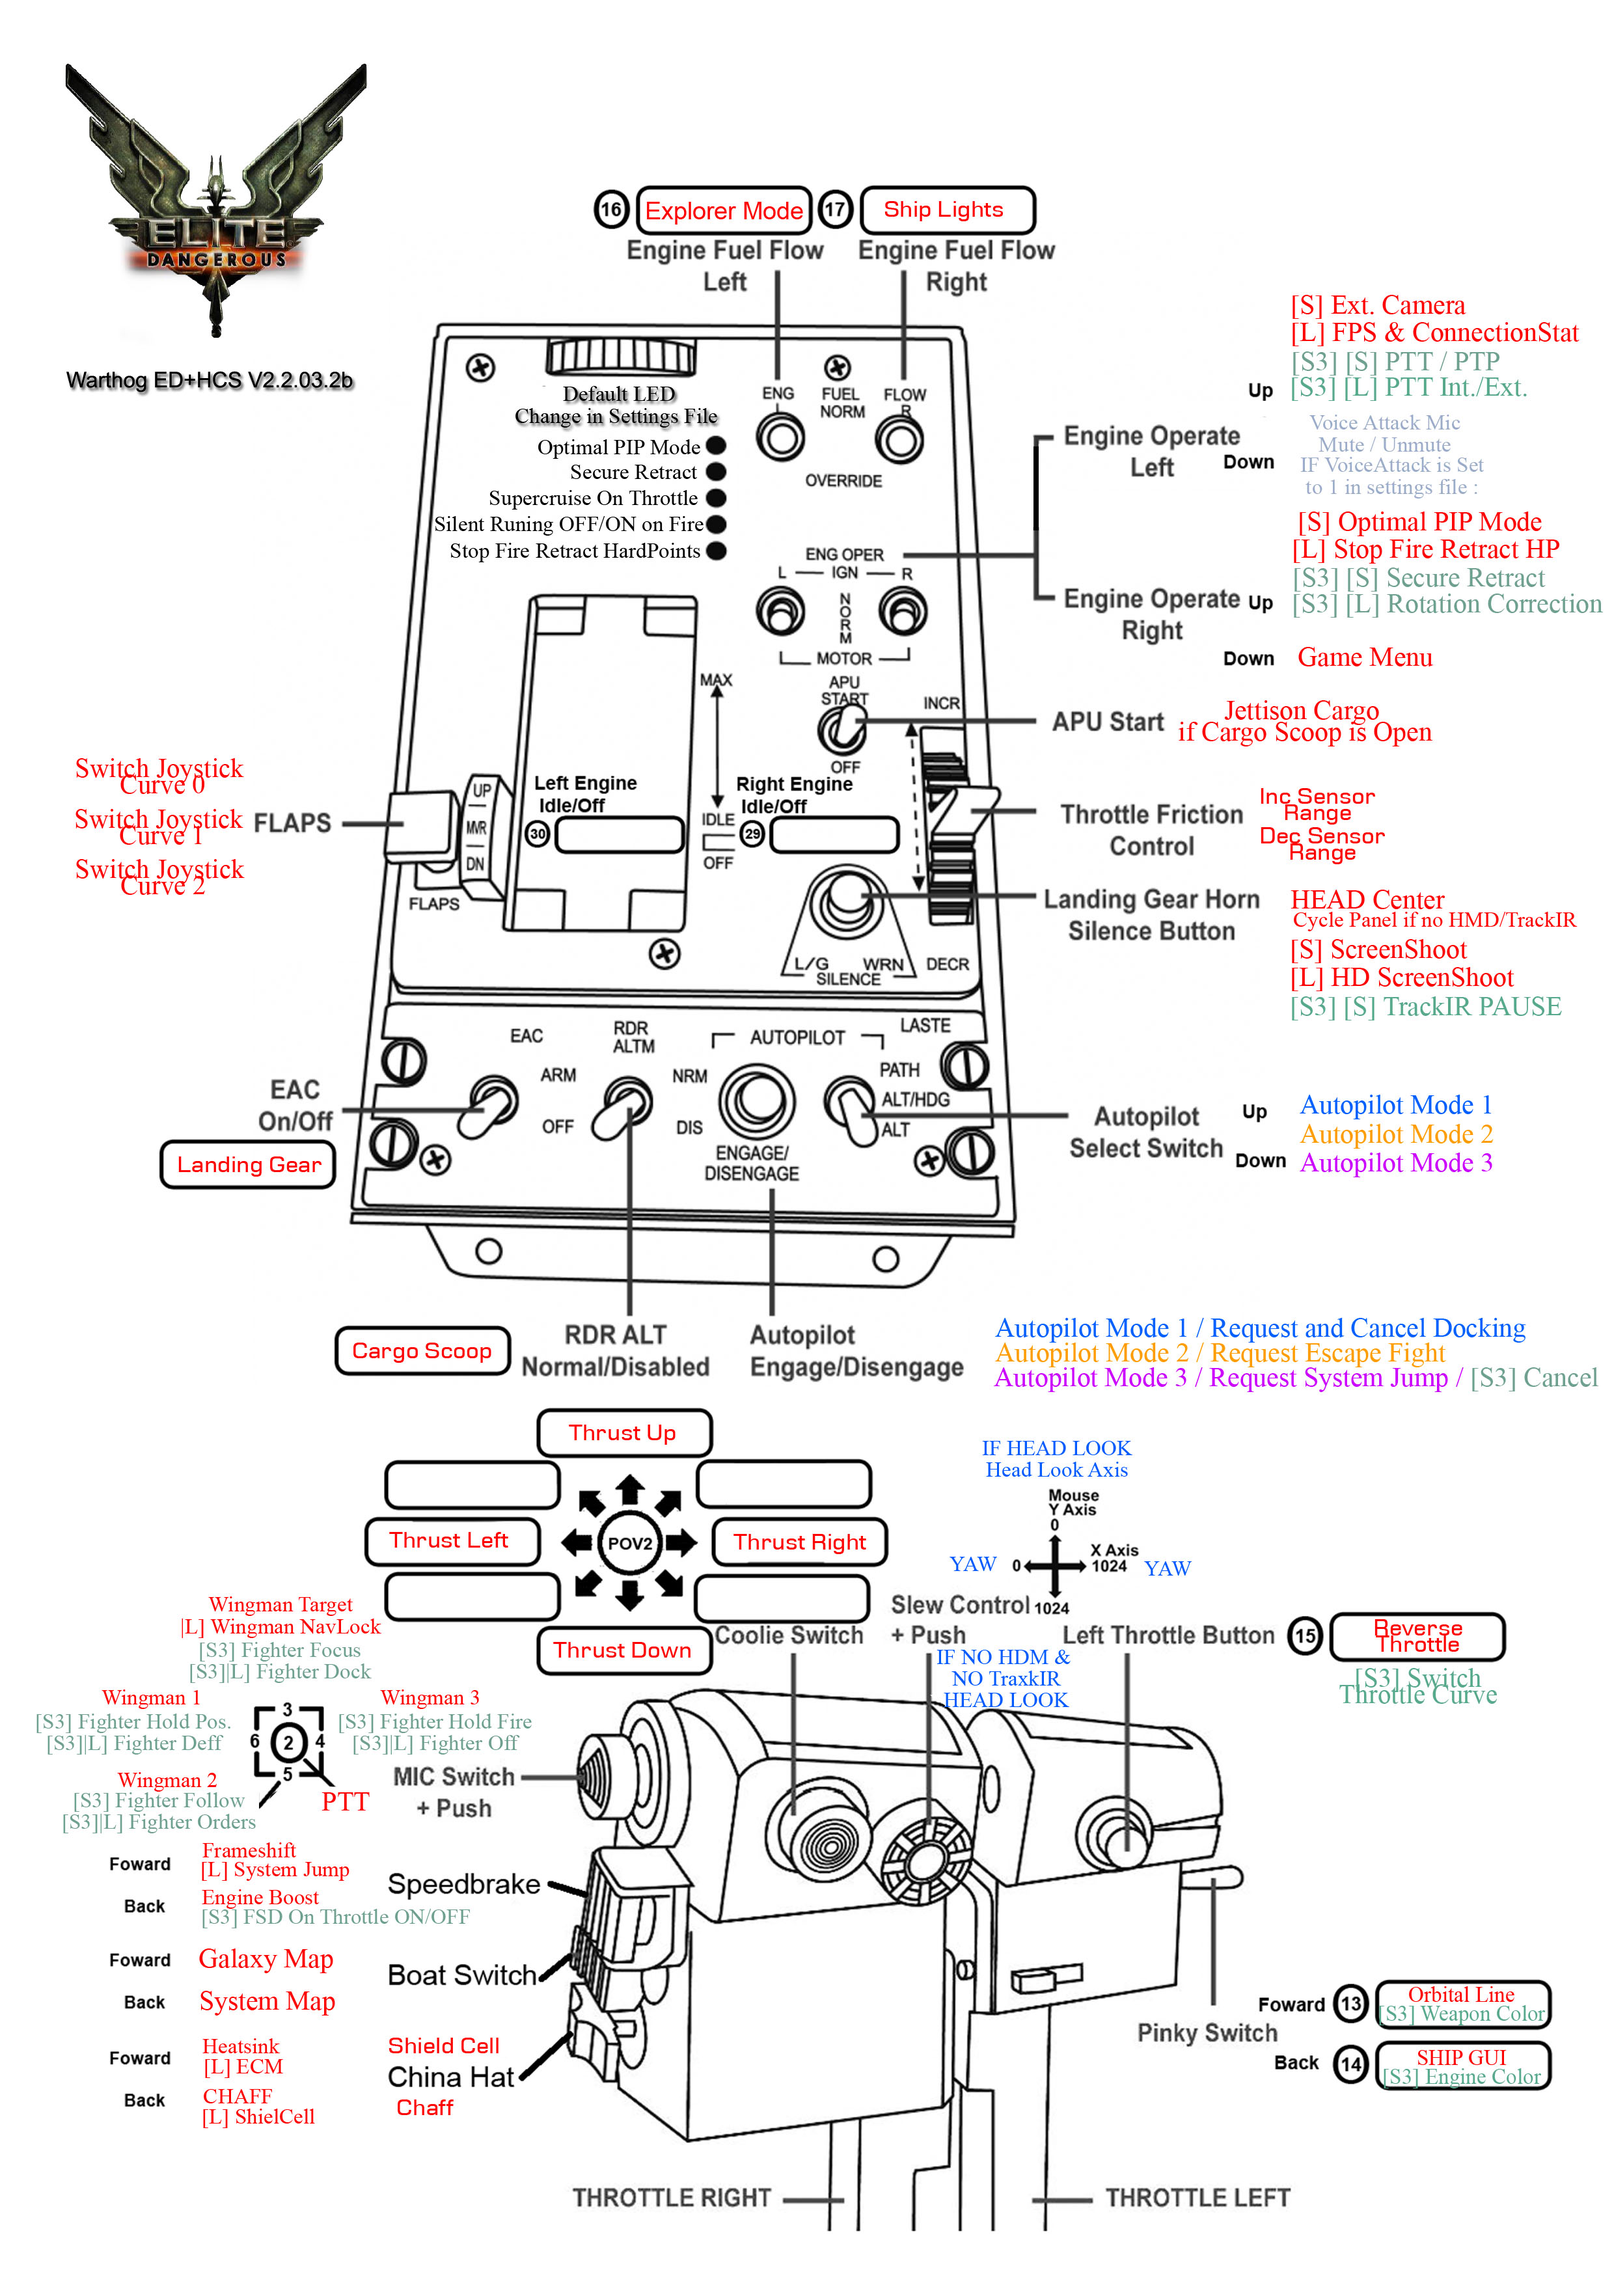
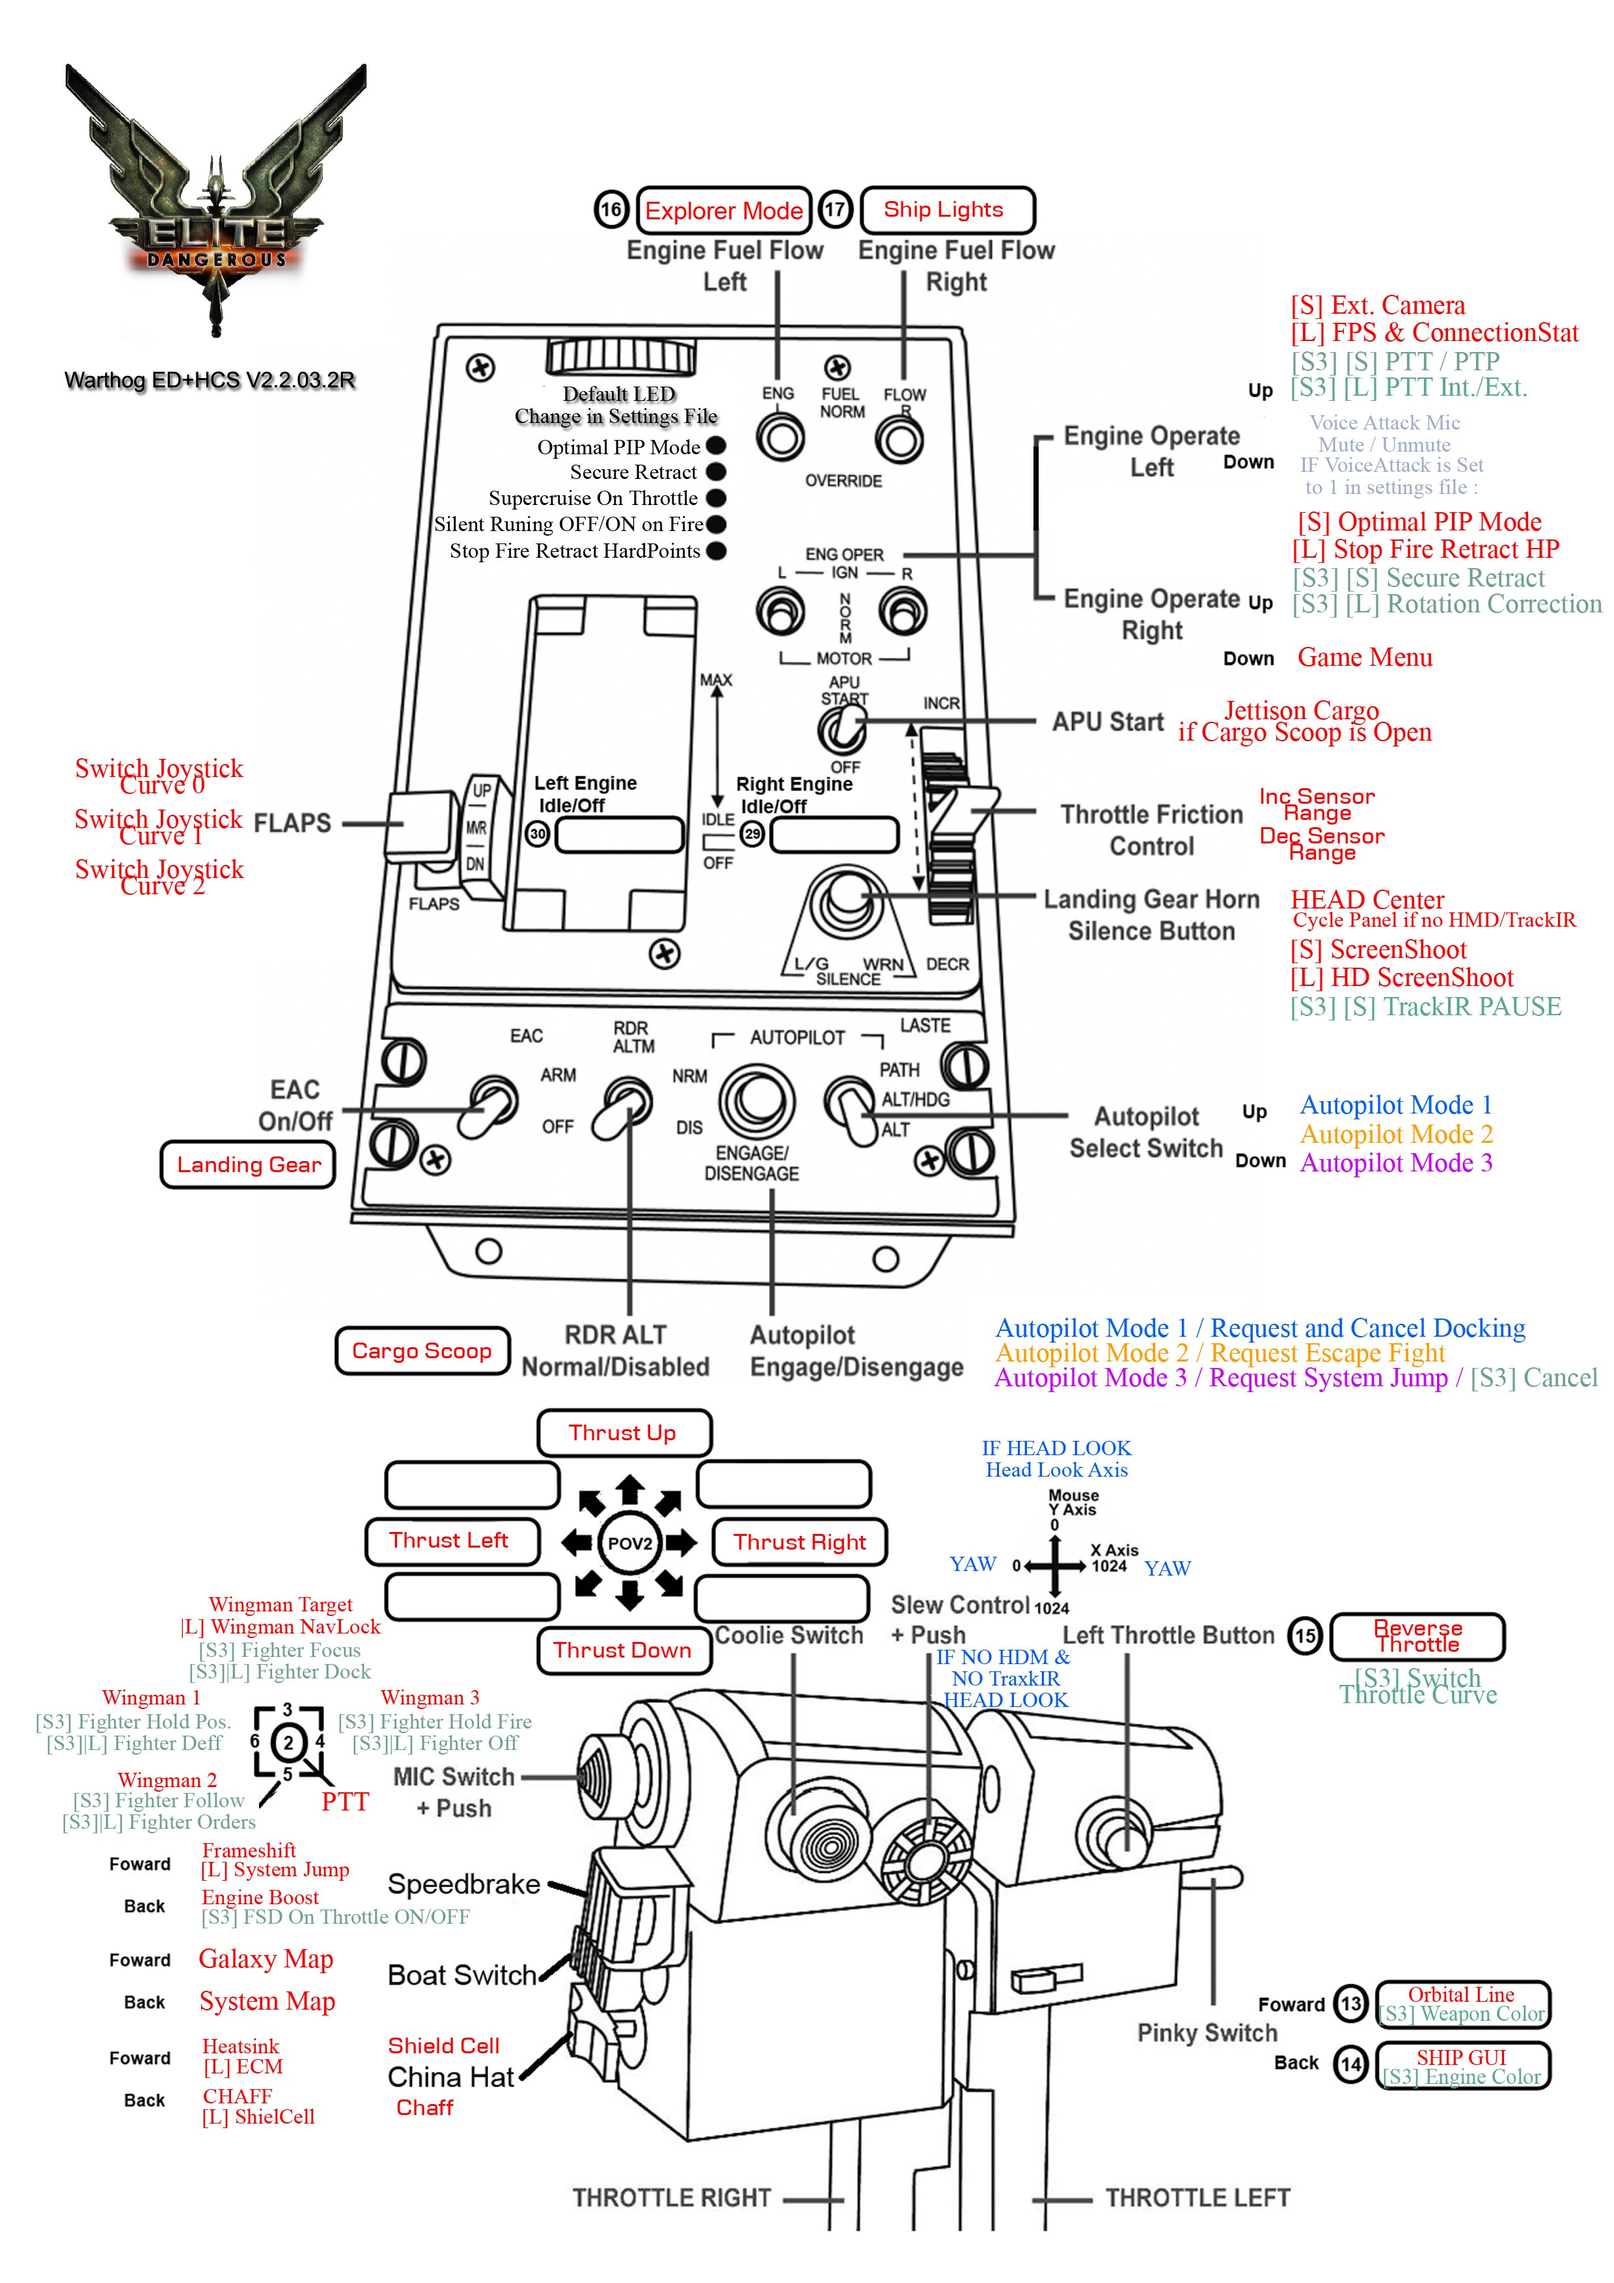
V2.2.03.2R

diff --git a/README.md b/README.md
@@ -1,4 +1,4 @@
-# Elite Dangerous Warthog Target Script (HCS Keys Binding) 2.2.03.2b 2017/01/22
+# Elite Dangerous Warthog Target Script (HCS Keys Binding) 2.2.03.2R 2017/01/22
 
 ![ED LOGO](http://edassets.org/img/preview/elite-dangerous-logo_grey.png)
 
